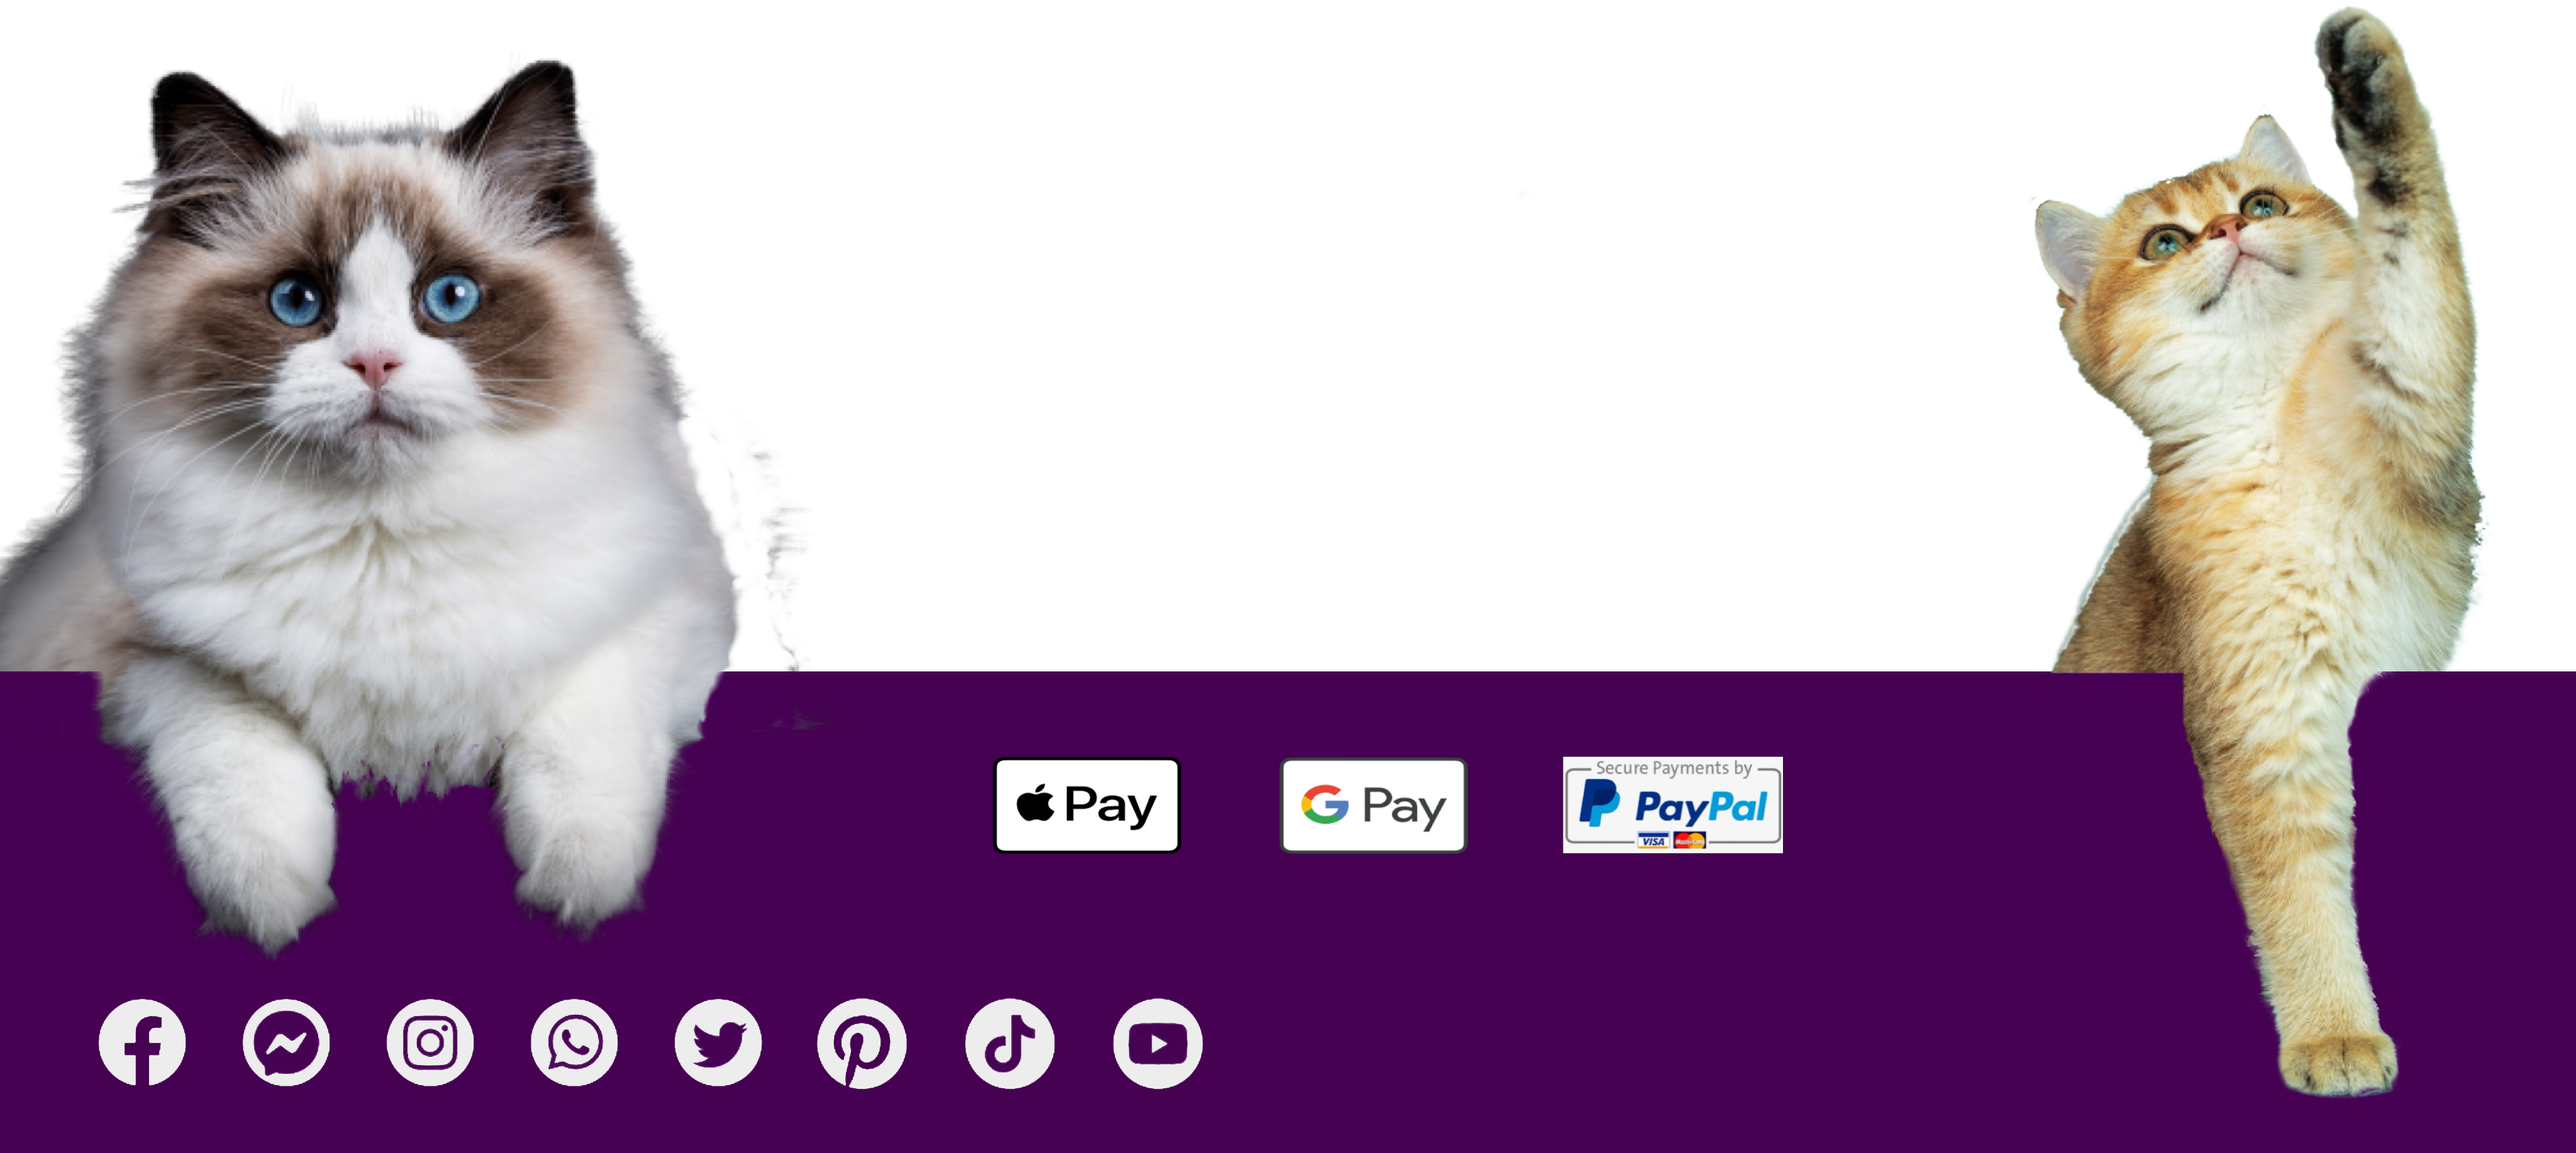
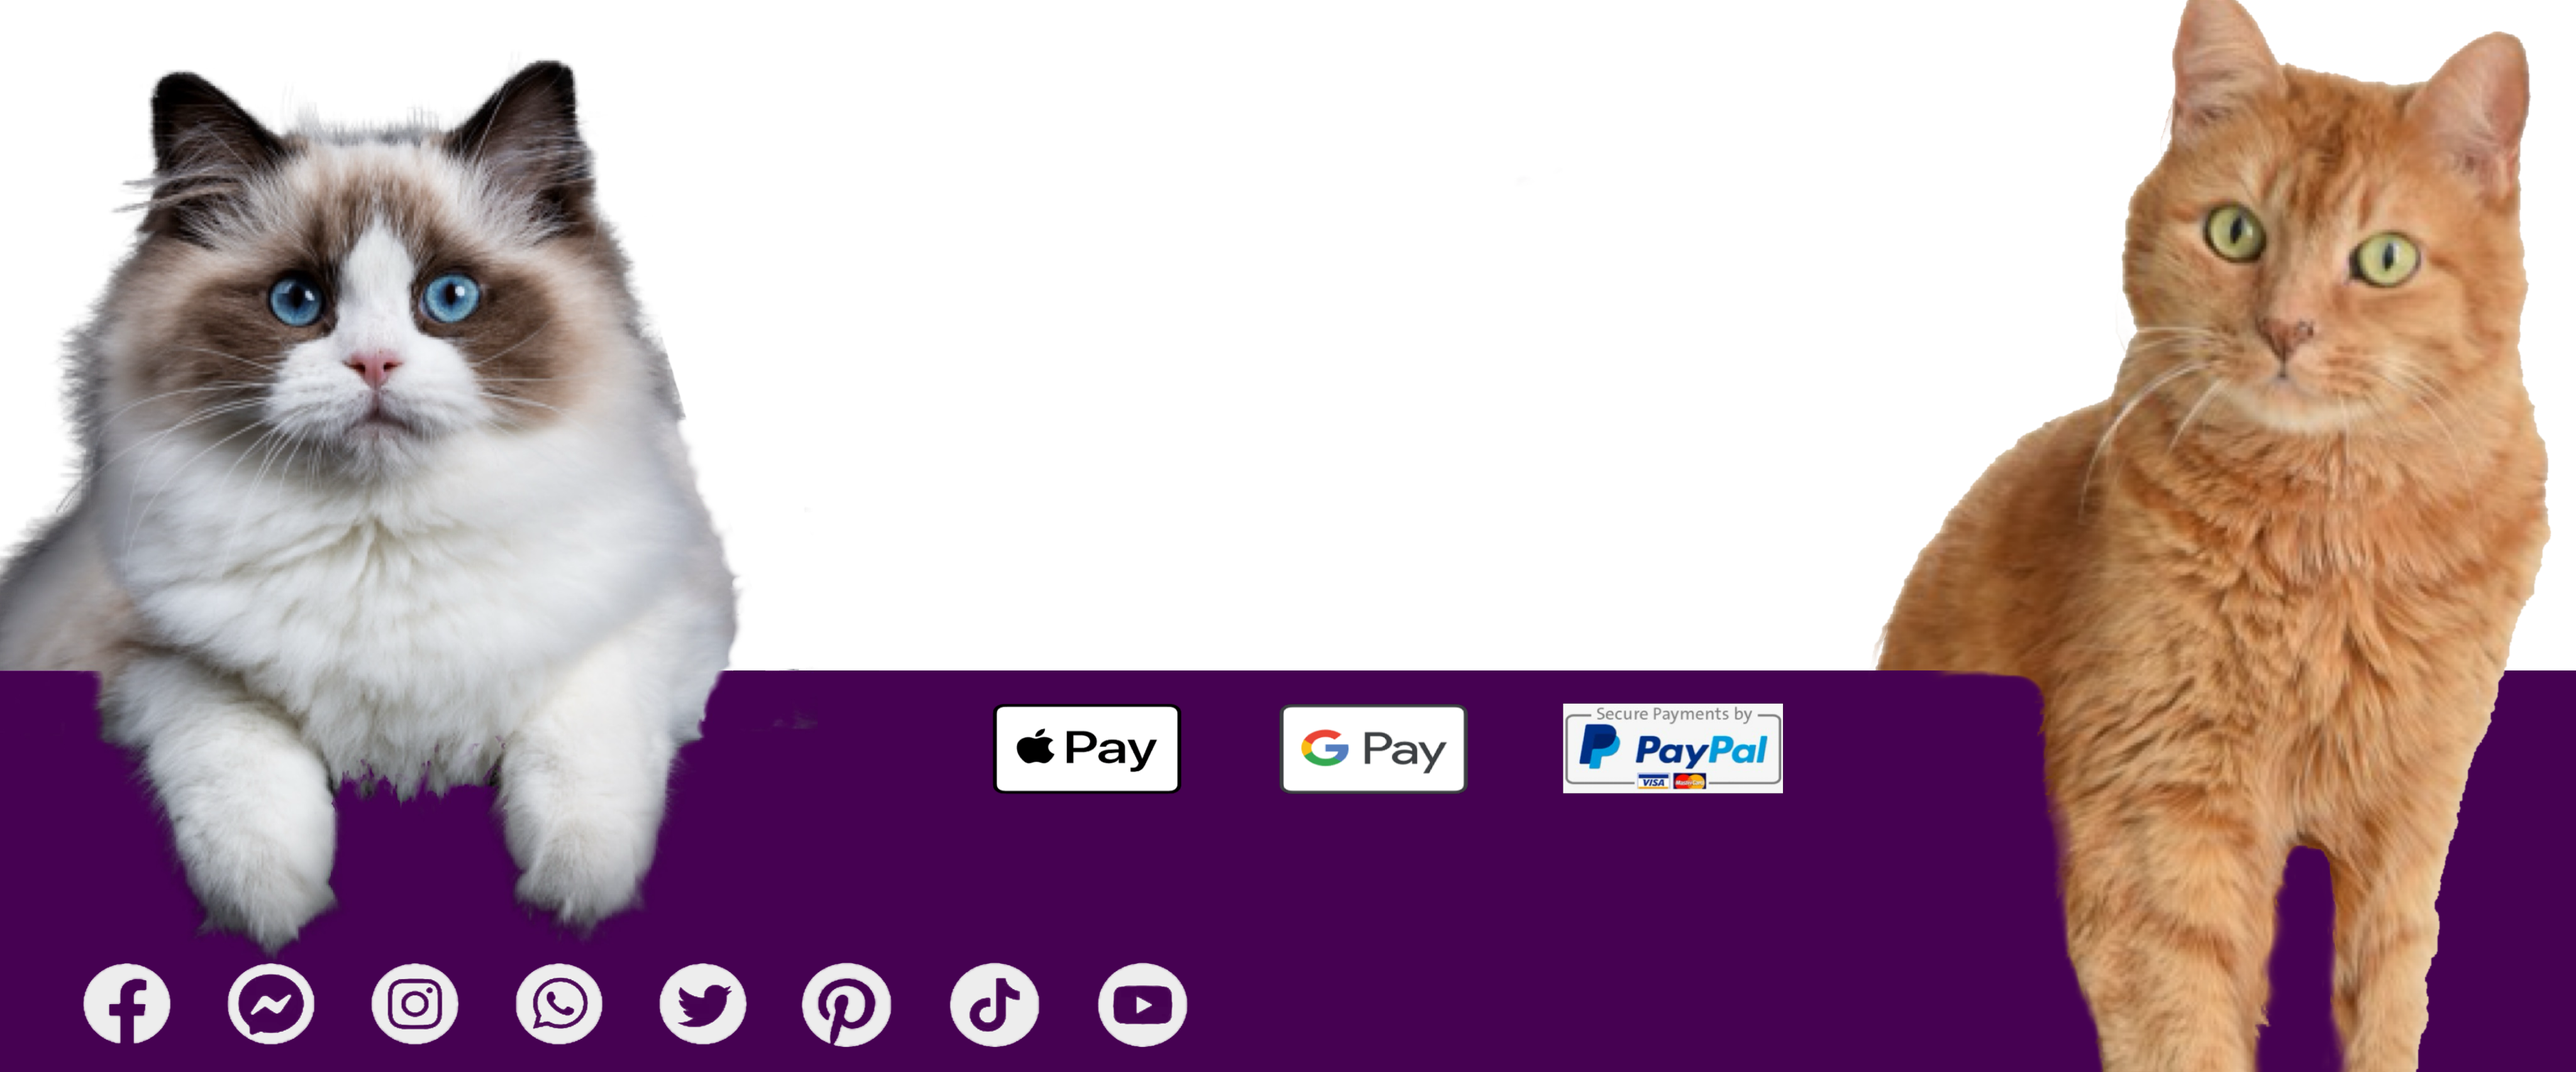
third commit

Changed region(s): [[0.0, 0.0, 1.0, 1.0]]

diff --git a/src/App.js b/src/App.js
@@ -5,25 +5,28 @@ import NavBar from './components/navbar';
 import MoreInfoPage from './components/moreInfo';
 import CatsPage from './pages/catspage';
 import HomePage from './pages/homepage';
-import Footer from './components/footer'
+import Footer from './components/footer';
+import Banner from './components/banner';
 
 
 function App() {
   const [basket, setBasket] = useState([]);
   const [cats, setCats] = useState([]);
+  const [page, setPage] = useState("home")
  
   return (
     <div className="App">
       <NavBar basket={basket} setBasket={setBasket} cats={cats} setCats={setCats}/>
+      <Banner page={page} />
       <div className="mainContent">
-          <Outlet basket={basket} setBasket={setBasket} cats={cats} setCats={setCats} />
+          <Outlet basket={basket} setBasket={setBasket} cats={cats} setCats={setCats} setPage={setPage} />
       </div>
       
       
       <Routes>
-        <Route key="homepage" index element={ <HomePage  basket={basket} setBasket={setBasket} cats={cats} setCats={setCats} />} />
-        <Route key="moreinfo" path="/moreinfo" element={ <MoreInfoPage basket={basket} setBasket={setBasket} cats={cats} setCats={setCats}/> } />
-        <Route key="adopt" path="/adopt" element={ <CatsPage  basket={basket} setBasket={setBasket} cats={cats} setCats={setCats}/> } />
+        <Route key="homepage" index element={ <HomePage  basket={basket} setBasket={setBasket} cats={cats} setCats={setCats} setPage={setPage} />} />
+        <Route key="moreinfo" path="/moreinfo" element={ <MoreInfoPage basket={basket} setBasket={setBasket} cats={cats} setCats={setCats} /> } />
+        <Route key="adopt" path="/adopt" element={ <CatsPage  basket={basket} setBasket={setBasket} cats={cats} setCats={setCats} setPage={setPage} /> } />
       </Routes>
       
       <Footer />

diff --git a/src/components/banner/index.js b/src/components/banner/index.js
@@ -1,0 +1,24 @@
+import BannerLeft from '../images/reachLeft.png';
+import BannerRight from '../images/reachRight.png';
+import BannerMiddle from '../images/reachMiddle.png';
+import './banner.css'
+
+const Banner = (props) => {
+
+function bannerDisplay(){
+    (props.page==="home")?
+    <img src={BannerLeft} alt="Banner" className="bannerImg"></img>
+    :(props.page==="adopt")?
+    <img src={BannerRight} alt="Banner" className="bannerImg"></img>
+    :
+    <img src={BannerMiddle} alt="Banner" className="bannerImg"></img>
+    
+}
+
+    return(
+        <div className="banner">
+            {bannerDisplay}
+        </div>
+    )
+}
+export default Banner;

diff --git a/src/pages/catspage.js b/src/pages/catspage.js
@@ -2,8 +2,8 @@ import './style.css'
 import FetchCats from '../components/fetchCats';
 
 const CatsPage = (props) => {
-
-
+    props.setPage("adopt");
+    
     return(
         <div className="catsPage">
             <FetchCats title="AVAILABLE ADOPTIONS" num='5' basket={props.basket} setBasket={props.setBasket} />

diff --git a/src/components/banner/banner.css b/src/components/banner/banner.css
@@ -17,14 +17,13 @@
   --darkPurple: #460152; 
   }
 
-  .footer{
+  .banner{
     max-width: 100vw;
     position:sticky;
     margin-top: auto;
-    overflow:hidden;
 
   }
-  .footerImg{
+  .bannerImg{
     width: 100%;
     position:sticky;
     margin-bottom: -10px;

diff --git a/src/pages/homepage.js b/src/pages/homepage.js
@@ -4,7 +4,7 @@ import TopCats from '../components/topCats';
 
 
 const HomePage = (props) => {
-
+    props.setPage("home");
 
     return(
         <div className="homepage">
